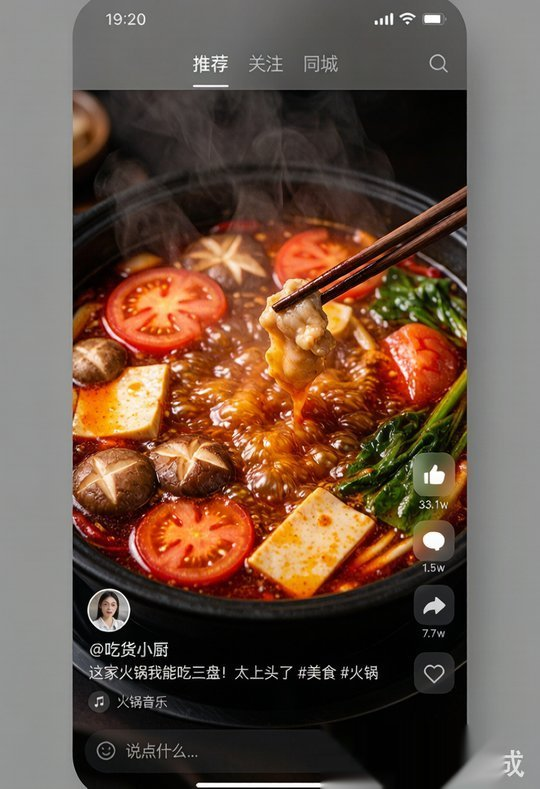
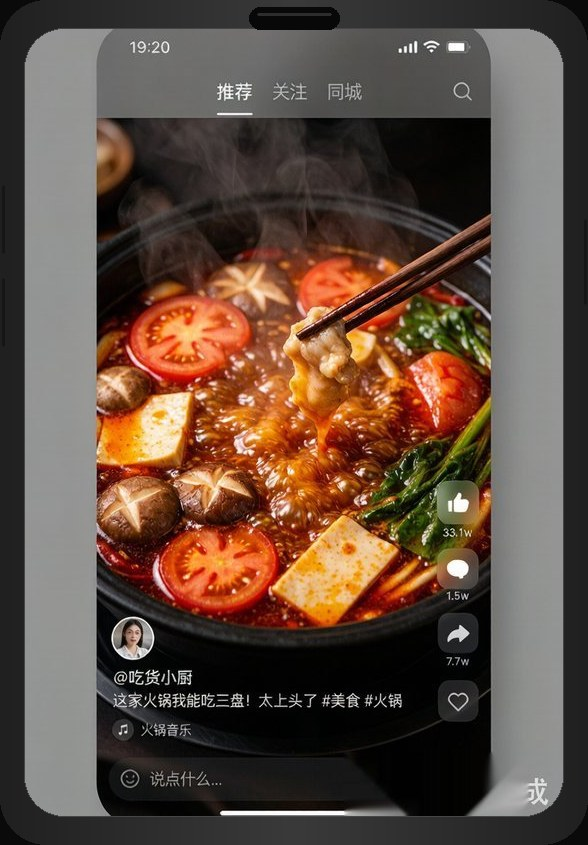
feat: 案例图统一合成iPhone手机边框，母婴案例替换为新生儿好物分享

diff --git a/index.html b/index.html
@@ -586,7 +586,7 @@
             <figure class="case-item"><img src="images/cases/case-graphic.jpg" alt="图文带货案例" loading="lazy" decoding="async"><figcaption>图文</figcaption></figure>
             <figure class="case-item"><img src="images/cases/case-food.jpg" alt="美食赛道短视频案例" loading="lazy" decoding="async"><figcaption>美食</figcaption></figure>
             <figure class="case-item"><img src="images/cases/case-rural.jpg" alt="三农赛道短视频案例" loading="lazy" decoding="async"><figcaption>三农</figcaption></figure>
-            <figure class="case-item"><img src="images/cases/case-baby.jpg" alt="母婴赛道短视频案例" loading="lazy" decoding="async"><figcaption>母婴</figcaption></figure>
+            <figure class="case-item"><img src="images/cases/case-baby.jpg" alt="新生儿好物分享案例" loading="lazy" decoding="async"><figcaption>新生儿好物分享</figcaption></figure>
             </div>
             <button class="case-arrow case-arrow--next" type="button" aria-label="下一组案例">›</button>
           </div>

diff --git a/styles.css b/styles.css
@@ -550,7 +550,7 @@ mark { background: transparent; color: var(--green-text); font-weight: 900; }
 .case-scroller { position: relative; }
 .case-arrow {
   position: absolute;
-  top: 43%;
+  top: 46%;
   transform: translateY(-50%);
   width: 44px;
   height: 44px;
@@ -590,8 +590,8 @@ mark { background: transparent; color: var(--green-text); font-weight: 900; }
 .case-item img {
   width: 100%;
   display: block;
-  border-radius: 16px;
-  border: 1px solid var(--line);
+  border-radius: 46px;
+  border: 1px solid rgba(255,255,255,0.08);
   background: #000;
   box-shadow: 0 12px 30px rgba(0,0,0,0.45);
   transition: transform 0.3s ease, box-shadow 0.3s ease, border-color 0.3s ease;
